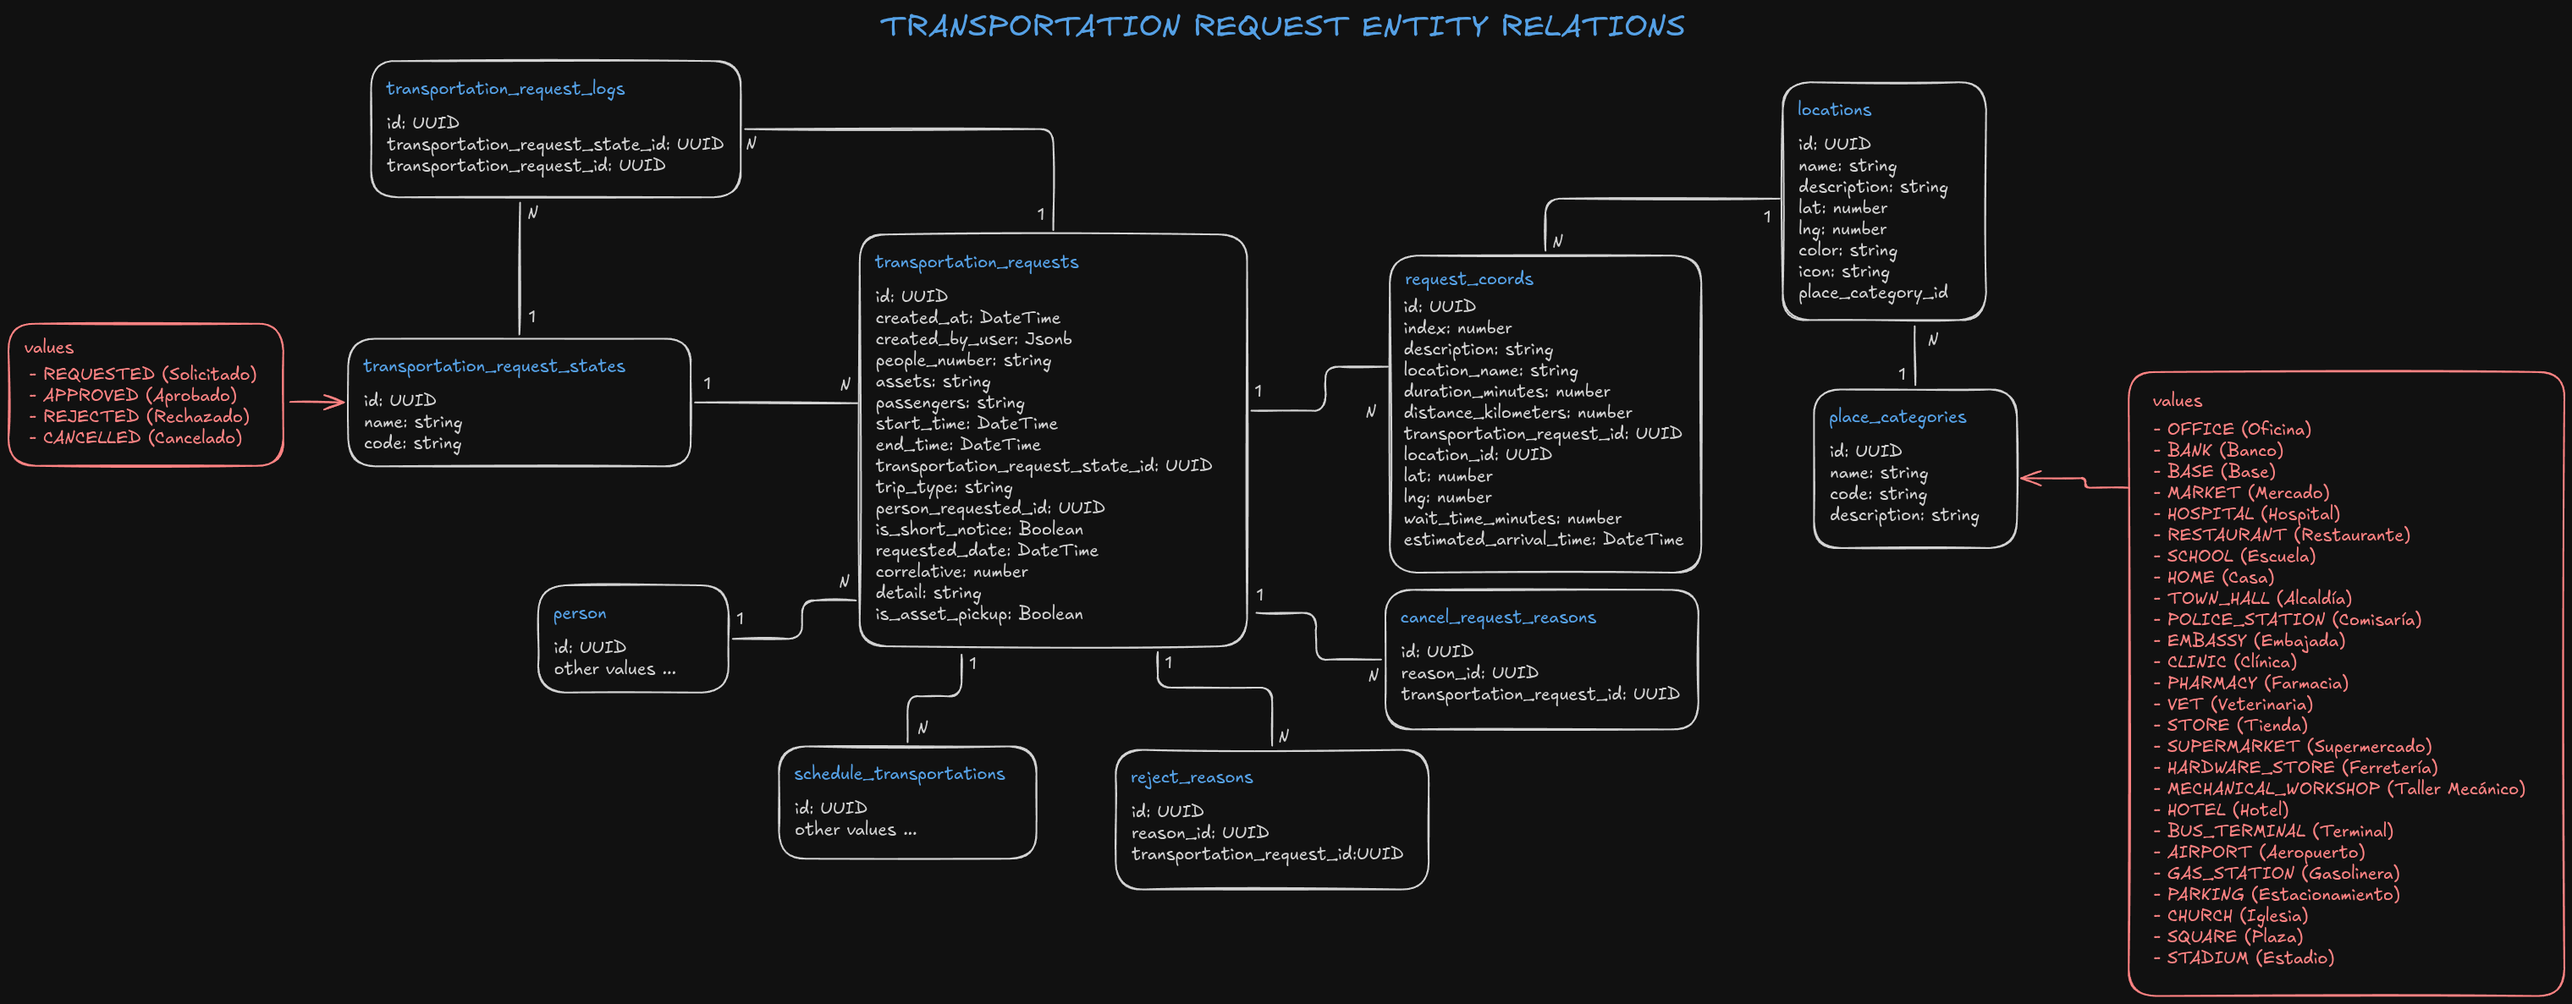
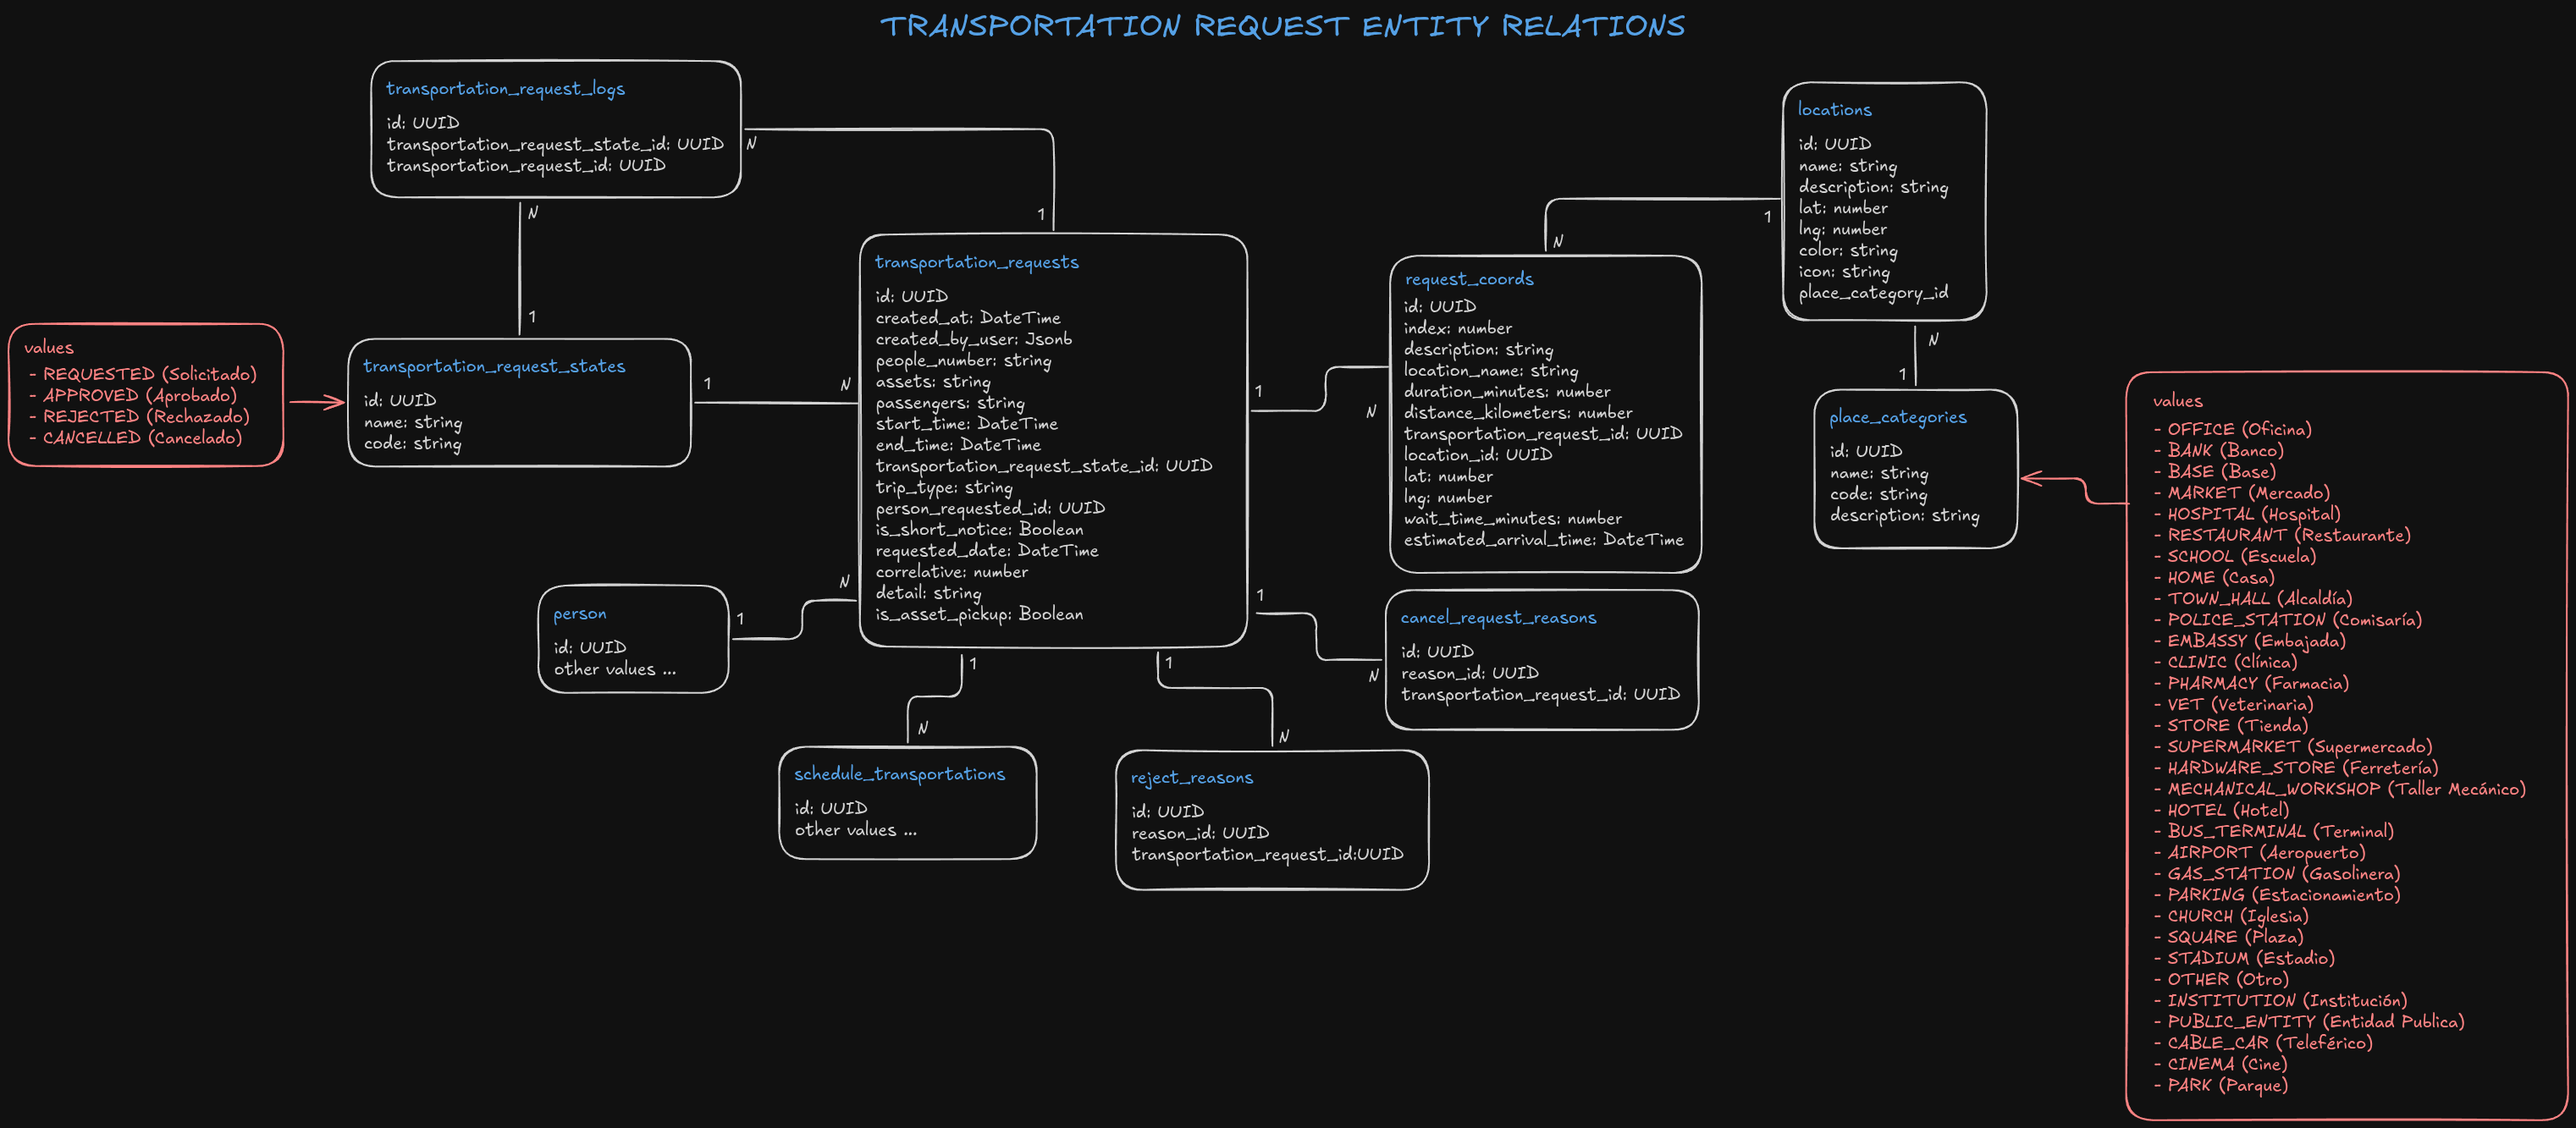
refactor: add new features in transportation request, change register

diff --git a/driver-schedule-service/src/main/java/com/kernotec/driverscheduleservice/command/transportation/request/TransportationRequestCreateCmd.java b/driver-schedule-service/src/main/java/com/kernotec/driverscheduleservice/command/transportation/request/TransportationRequestCreateCmd.java
@@ -2,8 +2,10 @@ package com.kernotec.driverscheduleservice.command.transportation.request;
 
 import com.kernotec.core.command.AbstractTransactionalRequiredCommand;
 import com.kernotec.driverscheduleservice.jpa.entity.TransportationRequest;
+import com.kernotec.driverscheduleservice.jpa.enums.GenerateCodeEnum;
 import com.kernotec.driverscheduleservice.jpa.enums.TripTypeEnum;
 import com.kernotec.driverscheduleservice.jpa.service.TransportationRequestService;
+import com.kernotec.driverscheduleservice.util.CodeGeneratorUtil;
 import jakarta.validation.constraints.NotNull;
 import java.time.LocalDateTime;
 import java.time.ZonedDateTime;
@@ -19,6 +21,7 @@ public class TransportationRequestCreateCmd extends
 {
 
     private final TransportationRequestService transportationRequestService;
+    private final CodeGeneratorUtil codeGeneratorUtil;
 
     @Override
     protected UUID run(Request request) {
@@ -38,11 +41,31 @@ public class TransportationRequestCreateCmd extends
             request.isAssetPickup != null && request.isAssetPickup);
         transportationRequest.setEstimatedTotalDistanceKm(request.estimatedTotalDistanceKm);
         transportationRequest.setEstimatedTotalDurationMin(request.estimatedTotalDurationMin);
+        transportationRequest.setWasRequestedByScheduler(request.wasRequestedByScheduler);
+        transportationRequest.setCode(codeGeneratorUtil.generateCodeApp(getGenerateCodeEnum(
+            transportationRequest.isAssetPickup(),
+            transportationRequest.isWasRequestedByScheduler()
+        )));
         transportationRequest.setTransportationRequestStateId(request.transportationRequestStateId);
         transportationRequest.setPersonRequestedId(request.personRequestId);
 
         transportationRequest = transportationRequestService.save(transportationRequest);
         return transportationRequest.getId();
+    }
+
+
+    private GenerateCodeEnum getGenerateCodeEnum(boolean isAssetPickup,
+        boolean wasRequestedByScheduler)
+    {
+        if (isAssetPickup) {
+            return GenerateCodeEnum.ASSET_PICKUP;
+        }
+
+        if (wasRequestedByScheduler) {
+            return GenerateCodeEnum.REQUEST_BY_SCHEDULER;
+        }
+
+        return GenerateCodeEnum.REQUEST;
     }
 
     @Builder
@@ -51,6 +74,7 @@ public class TransportationRequestCreateCmd extends
                           @NotNull LocalDateTime requestedDate, @NotNull TripTypeEnum tripType,
                           Boolean isShortNotice, String detail, Boolean isAssetPickup,
                           Double estimatedTotalDistanceKm, Double estimatedTotalDurationMin,
+                          @NotNull Boolean wasRequestedByScheduler,
                           @NotNull UUID transportationRequestStateId, @NotNull UUID personRequestId)
     {
 

diff --git a/driver-schedule-service/src/main/java/com/kernotec/driverscheduleservice/util/CodeGeneratorUtil.java b/driver-schedule-service/src/main/java/com/kernotec/driverscheduleservice/util/CodeGeneratorUtil.java
@@ -1,0 +1,91 @@
+package com.kernotec.driverscheduleservice.util;
+
+import com.kernotec.driverscheduleservice.jpa.enums.GenerateCodeEnum;
+import java.security.SecureRandom;
+import java.time.LocalDate;
+import lombok.RequiredArgsConstructor;
+import lombok.extern.slf4j.Slf4j;
+import org.springframework.stereotype.Service;
+
+@Slf4j
+@RequiredArgsConstructor
+@Service
+public class CodeGeneratorUtil {
+
+    private static final String ALPHABET = "0123456789ABCDEFGHIJKLMNOPQRSTUVWXYZabcdefghijklmnopqrstuvwxyz";
+    private static final SecureRandom RANDOM = new SecureRandom();
+    private static final int NANO_TARGET = 8;
+
+    public String encodeBase62(long value) {
+        StringBuilder sb = new StringBuilder();
+
+        while (value > 0) {
+            sb.append(ALPHABET.charAt((int) (value % ALPHABET.length())));
+            value /= ALPHABET.length();
+        }
+
+        String encoded = sb.reverse()
+            .toString();
+
+        if (encoded.length() > NANO_TARGET) {
+            return encoded.substring(encoded.length() - NANO_TARGET);
+        }
+
+        if (sb.length() < NANO_TARGET) {
+            int quantityToAdd = NANO_TARGET - encoded.length();
+            return generateCodeSimple(quantityToAdd) + encoded;
+        }
+
+        return encoded;
+    }
+
+    public String generateCode() {
+        var now = LocalDate.now();
+        long nano = System.nanoTime();
+
+        int yearValue = Math.max(Math.abs(now.getYear() % ALPHABET.length()), 1);
+
+        char monthChar = ALPHABET.charAt(now.getMonthValue());
+        char yearChar = ALPHABET.charAt(yearValue);
+
+        var stringBuilder = new StringBuilder();
+        stringBuilder.append(monthChar)
+            .append(yearChar);
+
+        String nanoBase62 = encodeBase62(nano);
+        String suffix = generateCodeSimple(2);
+
+        return stringBuilder.append(nanoBase62)
+            .append(suffix)
+            .toString();
+    }
+
+    public String generateCodeSimple(int length) {
+        StringBuilder suffix = new StringBuilder();
+
+        for (int index = 0; index < length; index++) {
+            suffix.append(ALPHABET.charAt(RANDOM.nextInt(ALPHABET.length())));
+        }
+
+        return suffix.toString();
+    }
+
+
+    public String generateCodeApp(GenerateCodeEnum generateCodeEnum) {
+        var code = new StringBuilder();
+
+        String prefix = switch (generateCodeEnum) {
+            case REQUEST -> "RE";
+            case ASSET_PICKUP -> "AP";
+            case REQUEST_BY_SCHEDULER -> "RS";
+        };
+
+        code.append(prefix);
+
+        String codeGenerate = generateCode();
+
+        return code.append("-")
+            .append(codeGenerate)
+            .toString();
+    }
+}

diff --git a/driver-schedule-service/src/test/java/com/kernotec/driverscheduleservice/util/CodeGeneratorUtilTest.java b/driver-schedule-service/src/test/java/com/kernotec/driverscheduleservice/util/CodeGeneratorUtilTest.java
@@ -1,0 +1,69 @@
+package com.kernotec.driverscheduleservice.util;
+
+import static org.junit.jupiter.api.Assertions.assertNotEquals;
+import static org.junit.jupiter.api.Assertions.assertNotNull;
+import static org.junit.jupiter.api.Assertions.assertTrue;
+
+import com.kernotec.core.test.UnitTest;
+import com.kernotec.driverscheduleservice.jpa.enums.GenerateCodeEnum;
+import lombok.extern.slf4j.Slf4j;
+import org.junit.jupiter.api.DisplayName;
+import org.junit.jupiter.api.Test;
+import org.mockito.InjectMocks;
+
+@Slf4j
+class CodeGeneratorUtilTest extends UnitTest {
+
+    @InjectMocks
+    private CodeGeneratorUtil codeGeneratorUtil;
+
+    @Test
+    @DisplayName("should return a code")
+    void shouldReturnACode() {
+        String generateCode = codeGeneratorUtil.generateCode();
+
+        log.info("Generated Code: {}", generateCode);
+        assertNotNull(generateCode);
+    }
+
+    @Test
+    @DisplayName("should return a different code each time")
+    void shouldReturnADifferentCodeEachTime() {
+        String code1 = codeGeneratorUtil.generateCode();
+        String code2 = codeGeneratorUtil.generateCode();
+
+        assertNotNull(code1);
+        assertNotNull(code2);
+        assertNotEquals(code1, code2);
+    }
+
+    @Test
+    @DisplayName("should return codes with AP prefix")
+    void shouldReturnCodesWithAPPrefix() {
+        String code = codeGeneratorUtil.generateCodeApp(GenerateCodeEnum.ASSET_PICKUP);
+
+        log.info("Generated Code with AP Prefix: {}", code);
+        assertNotNull(code);
+        assertTrue(code.contains("AP"));
+    }
+
+    @Test
+    @DisplayName("should return codes with RE prefix")
+    void shouldReturnCodesWithREPrefix() {
+        String code = codeGeneratorUtil.generateCodeApp(GenerateCodeEnum.REQUEST);
+        log.info("Generated Code with RE Prefix: {}", code);
+
+        assertNotNull(code);
+        assertTrue(code.contains("RE"));
+    }
+
+    @Test
+    @DisplayName("should return codes with RS prefix")
+    void shouldReturnCodesWithRSPrefix() {
+        String code = codeGeneratorUtil.generateCodeApp(GenerateCodeEnum.REQUEST_BY_SCHEDULER);
+        log.info("Generated Code with RS Prefix: {}", code);
+
+        assertNotNull(code);
+        assertTrue(code.contains("RS"));
+    }
+}

diff --git a/driver-schedule-service/src/main/java/com/kernotec/driverscheduleservice/jpa/entity/TransportationRequest.java b/driver-schedule-service/src/main/java/com/kernotec/driverscheduleservice/jpa/entity/TransportationRequest.java
@@ -3,6 +3,7 @@ package com.kernotec.driverscheduleservice.jpa.entity;
 import com.kernotec.driverscheduleservice.audit.user.BaseAuditEntityUser;
 import com.kernotec.driverscheduleservice.jpa.enums.TripTypeEnum;
 import com.kernotec.driverscheduleservice.util.SafeZoneDateTimeConverter;
+import jakarta.persistence.CascadeType;
 import jakarta.persistence.Column;
 import jakarta.persistence.Convert;
 import jakarta.persistence.Entity;
@@ -17,6 +18,7 @@ import jakarta.persistence.OneToMany;
 import jakarta.persistence.Table;
 import java.time.LocalDateTime;
 import java.time.ZonedDateTime;
+import java.util.List;
 import java.util.Set;
 import java.util.UUID;
 import lombok.Getter;
@@ -77,6 +79,13 @@ public class TransportationRequest extends BaseAuditEntityUser {
     @Column(name = "estimated_total_duration_min")
     private Double estimatedTotalDurationMin;
 
+    @Column(name = "code", length = 30, unique = true)
+    private String code;
+
+    @Column(name = "was_requested_by_scheduler", nullable = false,
+            columnDefinition = "boolean default false")
+    private boolean wasRequestedByScheduler = false;
+
     @Column(name = "transportation_request_state_id", nullable = false)
     private UUID transportationRequestStateId;
 
@@ -109,4 +118,8 @@ public class TransportationRequest extends BaseAuditEntityUser {
 
     @OneToMany(mappedBy = "transportationRequest", fetch = FetchType.LAZY)
     private Set<ScheduleTransportation> scheduleTransportations;
+
+    @OneToMany(mappedBy = "transportationRequest", fetch = FetchType.LAZY,
+               cascade = CascadeType.ALL)
+    private List<RequestCoord> requestCoords;
 }

diff --git a/driver-schedule-service/src/main/java/com/kernotec/driverscheduleservice/rest/dto/response/transportation/request/TransportationRequestResponse.java b/driver-schedule-service/src/main/java/com/kernotec/driverscheduleservice/rest/dto/response/transportation/request/TransportationRequestResponse.java
@@ -6,10 +6,12 @@ import com.kernotec.driverscheduleservice.audit.user.dto.response.AuditEntityUse
 import com.kernotec.driverscheduleservice.jpa.enums.TripTypeEnum;
 import com.kernotec.driverscheduleservice.rest.dto.response.person.PersonResponse;
 import com.kernotec.driverscheduleservice.rest.dto.response.reason.ReasonResponse;
+import com.kernotec.driverscheduleservice.rest.dto.response.request.coord.RequestCoordResponse;
 import com.kernotec.driverscheduleservice.rest.dto.response.schedule.transportation.ScheduleTransportationResponse;
 import com.kernotec.driverscheduleservice.rest.dto.response.transportation.request.state.TransportationRequestStateResponse;
 import java.time.LocalDateTime;
 import java.time.ZonedDateTime;
+import java.util.List;
 import java.util.Set;
 import java.util.UUID;
 import lombok.Getter;
@@ -35,6 +37,8 @@ public class TransportationRequestResponse extends AuditEntityUserResponse {
     private boolean isAssetPickup;
     private Double estimatedTotalDistanceKm;
     private Double estimatedTotalDurationMin;
+    private String code;
+    private boolean wasRequestedByScheduler;
 
     private UUID transportationRequestStateId;
     private TransportationRequestStateResponse transportationRequestState;
@@ -45,4 +49,6 @@ public class TransportationRequestResponse extends AuditEntityUserResponse {
     private Set<ReasonResponse> rejectReasons;
     private Set<ReasonResponse> cancelReasons;
     private Set<ScheduleTransportationResponse> scheduleTransportations;
+
+    private List<RequestCoordResponse> requestCoords;
 }

diff --git a/driver-schedule-service/src/main/java/com/kernotec/driverscheduleservice/rest/mapper/response/transportation/request/TransportationRequestResponseMapper.java b/driver-schedule-service/src/main/java/com/kernotec/driverscheduleservice/rest/mapper/response/transportation/request/TransportationRequestResponseMapper.java
@@ -4,6 +4,7 @@ import com.kernotec.driverscheduleservice.audit.user.mapper.AuthUserDataResponse
 import com.kernotec.driverscheduleservice.jpa.entity.TransportationRequest;
 import com.kernotec.driverscheduleservice.rest.dto.response.transportation.request.TransportationRequestResponse;
 import com.kernotec.driverscheduleservice.rest.mapper.response.person.PersonResponseWithContactMapper;
+import com.kernotec.driverscheduleservice.rest.mapper.response.request.coord.RequestCoordToRequestResponseMapper;
 import com.kernotec.driverscheduleservice.rest.mapper.response.schedule.transportation.ScheduleTransportationResponseToRequestMapper;
 import com.kernotec.driverscheduleservice.util.GeoJsonUtil;
 import java.util.List;
@@ -12,12 +13,13 @@ import java.util.UUID;
 import org.mapstruct.Mapper;
 
 @Mapper(uses = {GeoJsonUtil.class, ScheduleTransportationResponseToRequestMapper.class,
-    PersonResponseWithContactMapper.class, AuthUserDataResponseMapper.class})
+    PersonResponseWithContactMapper.class, AuthUserDataResponseMapper.class,
+    RequestCoordToRequestResponseMapper.class})
 public interface TransportationRequestResponseMapper {
 
     TransportationRequestResponse toResponse(TransportationRequest transportationRequest);
 
-    TransportationRequestResponse toResponse(UUID id, Long correlative);
+    TransportationRequestResponse toResponse(UUID id, Long correlative, String code);
 
     List<TransportationRequestResponse> toResponse(
         List<TransportationRequest> transportationRequestList);

diff --git a/driver-schedule-service/src/main/java/com/kernotec/driverscheduleservice/rest/mapper/response/request/coord/RequestCoordToRequestResponseMapper.java b/driver-schedule-service/src/main/java/com/kernotec/driverscheduleservice/rest/mapper/response/request/coord/RequestCoordToRequestResponseMapper.java
@@ -1,0 +1,27 @@
+package com.kernotec.driverscheduleservice.rest.mapper.response.request.coord;
+
+import com.kernotec.driverscheduleservice.jpa.entity.RequestCoord;
+import com.kernotec.driverscheduleservice.rest.dto.response.request.coord.RequestCoordResponse;
+import com.kernotec.driverscheduleservice.util.GeoJsonUtil;
+import java.util.List;
+import java.util.Set;
+import java.util.UUID;
+import org.mapstruct.Mapper;
+import org.mapstruct.Mapping;
+
+@Mapper(uses = {GeoJsonUtil.class})
+public interface RequestCoordToRequestResponseMapper {
+
+    @Mapping(target = "coordinates", source = "coordinate",
+             qualifiedByName = "mapToPositionGeoJson")
+    @Mapping(target = "longitude", source = "coordinate.lng")
+    @Mapping(target = "latitude", source = "coordinate.lat")
+    @Mapping(target = "transportationRequest", ignore = true)
+    RequestCoordResponse toResponse(RequestCoord requestCoord);
+
+    RequestCoordResponse toResponse(UUID id);
+
+    List<RequestCoordResponse> toResponse(List<RequestCoord> requestCoordList);
+
+    Set<RequestCoordResponse> toResponse(Set<RequestCoord> requestCoordSet);
+}

diff --git a/driver-schedule-service/src/main/java/com/kernotec/driverscheduleservice/rest/command/transportation/request/TransportationRequestFlowCreateCmd.java b/driver-schedule-service/src/main/java/com/kernotec/driverscheduleservice/rest/command/transportation/request/TransportationRequestFlowCreateCmd.java
@@ -83,6 +83,8 @@ public class TransportationRequestFlowCreateCmd extends
                         transportationRequestCreateRequest.getEstimatedTotalDistanceKm())
                     .estimatedTotalDurationMin(
                         transportationRequestCreateRequest.getEstimatedTotalDurationMin())
+                    .wasRequestedByScheduler(
+                        transportationRequestCreateRequest.getPersonRequestedId() != null)
                     .transportationRequestStateId(transportationRequestStateRequestedId)
                     .personRequestId(personId)
                     .build())

diff --git a/driver-schedule-service/src/main/java/com/kernotec/driverscheduleservice/rest/controller/TransportationRequestController.java b/driver-schedule-service/src/main/java/com/kernotec/driverscheduleservice/rest/controller/TransportationRequestController.java
@@ -136,8 +136,8 @@ public class TransportationRequestController {
         return SingleResponse.<TransportationRequestResponse>builder()
             .code(HttpStatus.CREATED.value())
             .data(transportationRequestResponseMapper.toResponse(
-                transportationRequest.getId(),
-                transportationRequest.getCorrelative()
+                transportationRequest.getId(), transportationRequest.getCorrelative(),
+                transportationRequest.getCode()
             ))
             .build();
     }

diff --git a/driver-schedule-service/src/main/java/com/kernotec/driverscheduleservice/jpa/enums/GenerateCodeEnum.java b/driver-schedule-service/src/main/java/com/kernotec/driverscheduleservice/jpa/enums/GenerateCodeEnum.java
@@ -1,0 +1,5 @@
+package com.kernotec.driverscheduleservice.jpa.enums;
+
+public enum GenerateCodeEnum {
+    REQUEST, ASSET_PICKUP, REQUEST_BY_SCHEDULER
+}
